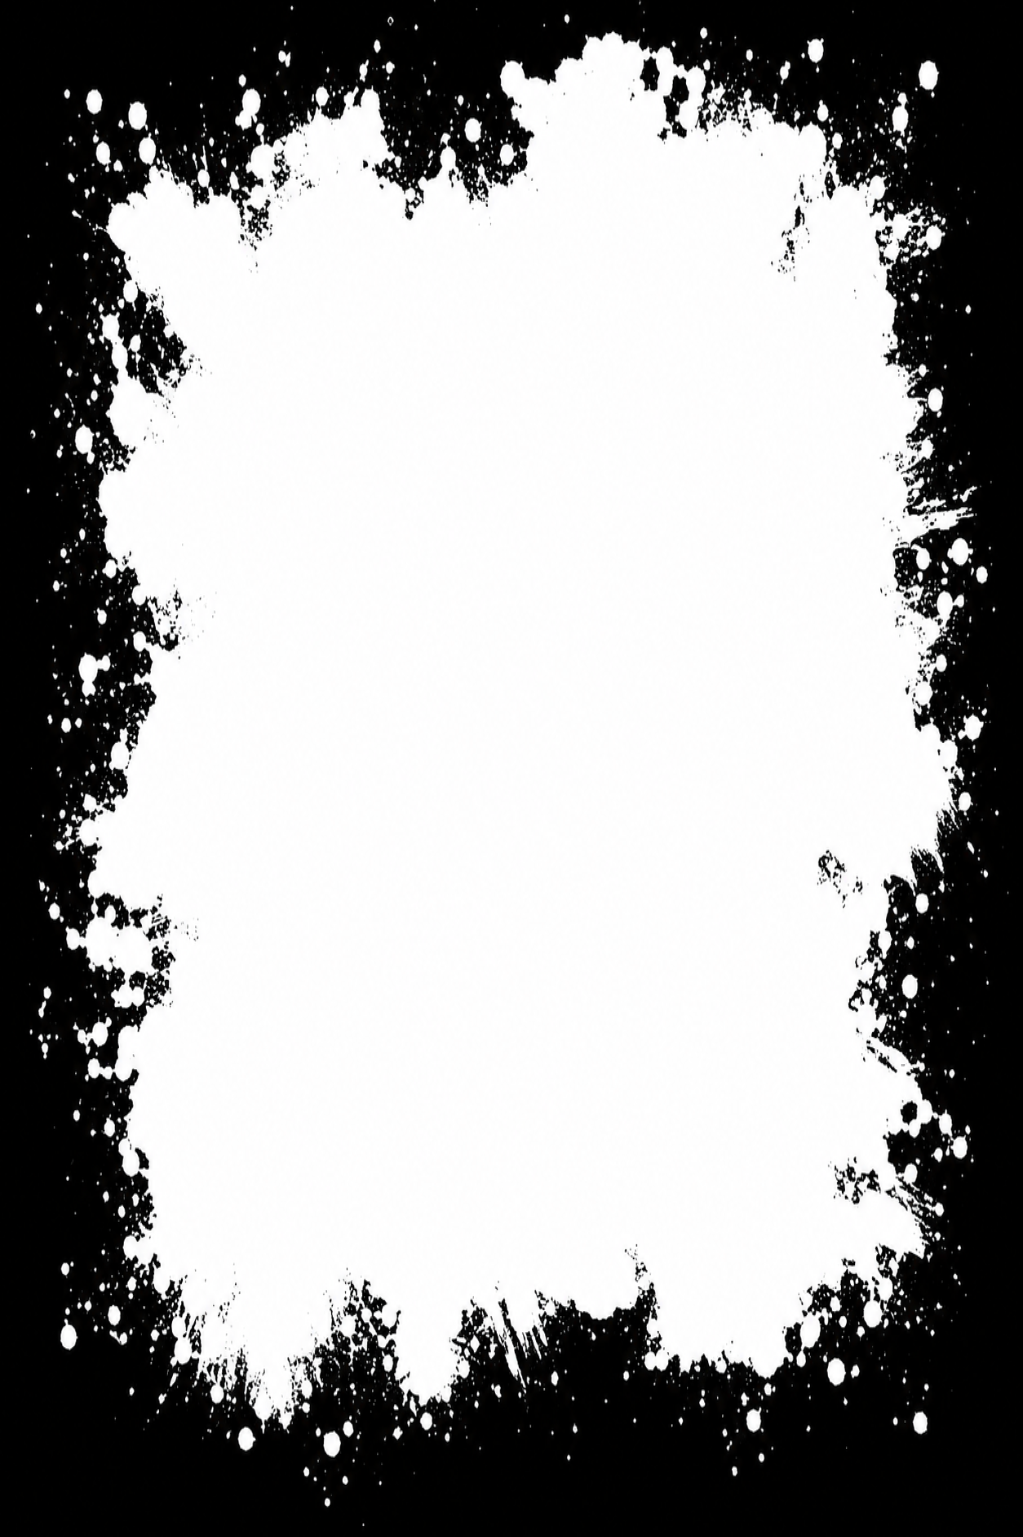
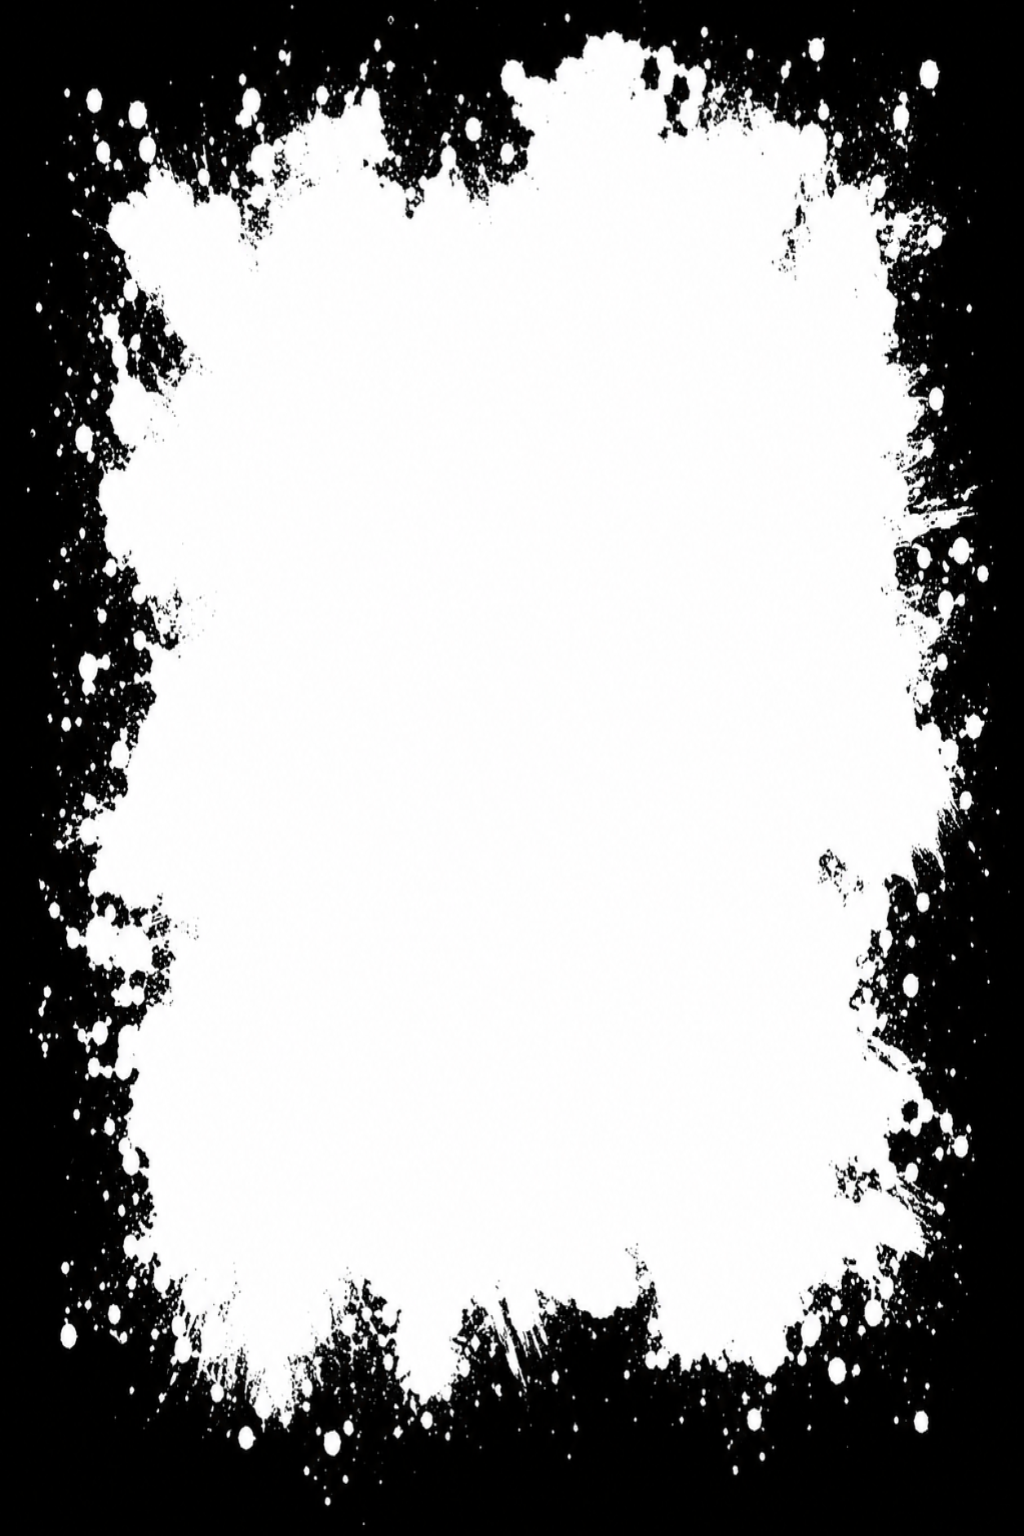
fix loading and butterfly-animation timeline

diff --git a/src/intro.js b/src/intro.js
@@ -27,6 +27,9 @@
   let butterflyAnimation = 0;
   let lastButterflyFrame = -1;
   let butterflyStartedAt = 0;
+  let finishTimer = 0;
+  let started = false;
+  let finished = false;
   const reducedMotion = window.matchMedia("(prefers-reduced-motion: reduce)").matches;
   const animateButterfly = (time) => {
     if (!butterflyStartedAt) butterflyStartedAt = time;
@@ -37,25 +40,33 @@
     }
     butterflyAnimation = window.requestAnimationFrame(animateButterfly);
   };
-  if (!reducedMotion) {
-    preloadFrames().then(() => {
-      if (!finished) butterflyAnimation = window.requestAnimationFrame(animateButterfly);
-    });
-  }
-
-  let finished = false;
+  const butterflyFramesReady = reducedMotion ? Promise.resolve() : preloadFrames();
   const finish = () => {
     if (finished) return;
     finished = true;
+    window.clearTimeout(finishTimer);
     window.cancelAnimationFrame(butterflyAnimation);
     intro.classList.add("is-leaving");
     document.body.classList.remove("intro-active");
     window.setTimeout(() => intro.remove(), 900);
   };
 
+  const start = () => {
+    if (started || finished) return;
+    started = true;
+    intro.classList.add("is-playing");
+    butterflyFramesReady.then(() => {
+      if (!finished) butterflyAnimation = window.requestAnimationFrame(animateButterfly);
+    });
+    finishTimer = window.setTimeout(finish, 7200);
+  };
+
   skip?.addEventListener("click", finish);
   intro.addEventListener("animationend", (event) => {
     if (event.animationName === "dream-wash") finish();
   });
-  window.setTimeout(finish, 7200);
+
+  const loading = document.querySelector("#site-loading");
+  if (!loading || loading.hidden || !loading.classList.contains("is-visible")) start();
+  else window.addEventListener("page-loading:boot-complete", start, { once: true });
 })();

diff --git a/src/feature-preloader.js b/src/feature-preloader.js
@@ -41,6 +41,7 @@ class PageLoadingController {
   end(token) {
     const operation = this.operations.get(token);
     if (!operation) return;
+    const isBootOperation = token === this.bootToken;
     window.clearTimeout(operation.timer);
     this.operations.delete(token);
     if (this.operations.size) return;
@@ -51,7 +52,10 @@ class PageLoadingController {
       this.root.classList.remove("is-visible");
       this.root.setAttribute("aria-busy", "false");
       window.setTimeout(() => {
-        if (!this.operations.size) this.root.hidden = true;
+        if (!this.operations.size) {
+          this.root.hidden = true;
+          if (isBootOperation) window.dispatchEvent(new CustomEvent("page-loading:boot-complete"));
+        }
       }, 260);
     }, delay);
   }

diff --git a/styles.css b/styles.css
@@ -56,6 +56,18 @@ body.intro-active #game {
   opacity: 0;
 }
 
+/* 開場動畫必須等初次載入遮罩完全退場後才開始計時。 */
+.dream-intro:not(.is-playing) .dream-city,
+.dream-intro:not(.is-playing) .dream-city-glow,
+.dream-intro:not(.is-playing) .dream-butterfly,
+.dream-intro:not(.is-playing) .dream-butterfly-trail,
+.dream-intro:not(.is-playing) .dream-wash,
+.dream-intro:not(.is-playing) .dream-wash::before,
+.dream-intro:not(.is-playing) .dream-wash::after,
+.dream-intro:not(.is-playing) .dream-whisper {
+  animation-play-state: paused;
+}
+
 .dream-city,
 .dream-city-glow,
 .dream-butterfly-trail,
